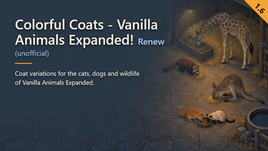
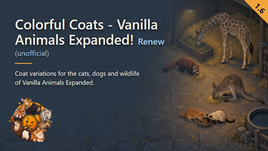
Preview: the ModIcon mascot, cut out and tilted, in the bottom-left corner
Owner's rule, 2026-09-29: gallery image 0 is a copy of Preview.png, and
Preview.png itself now carries the ModIcon mascot in one corner, cut out of
its near-black background, tilted +15 in the left corner / -15 in the right.
Bottom-left chosen: top corners hold the title and the version badge.

Art/ModIcon-corner.png is the reusable rotated cutout. Art/Gallery/00-preview.png
is the gallery copy, kept in step by hand, not regenerated automatically.
Still under Steam's 1 MB ceiling (754 KB). Checked at 268 px: the icon reads
as a small accent, not the subject, which is the intent for a corner mark.

Changed region(s): [[0.0299, 0.6358, 0.209, 0.9536]]

diff --git a/PUBLICATION.md b/PUBLICATION.md
@@ -26,10 +26,16 @@ a file name does not say what it contains.
 
 ## Gallery order
 
-Steam shows the first image large. **Open:** the captures come from `coats.feature`
-(`@review`, poodles drawn with their coat), not yet run. Plan: 1. poodles with different coats,
-close up; 2. a second species, for range; 3. the rare coat if a capture of it exists. Each image
-is opened and looked at before it is chosen; a green scenario does not prove its image shows a coat.
+Steam shows the first image large. **Owner's rule, 2026-09-29: image 0 is a copy of
+`Mod/About/Preview.png`** — the same banner, reused as the first gallery screenshot rather than
+being the header alone. `Art/Gallery/00-preview.png` is that copy, regenerated whenever
+`Preview.png` changes; not committed automatically, kept in step by hand.
+
+Plan for the rest, **open**: the captures come from `coats.feature`
+(`@review`, poodles drawn with their coat), not yet run. 1. `00-preview.png`; 2. poodles with
+different coats, close up; 3. a second species, for range; 4. the rare coat if a capture of it
+exists. Each image is opened and looked at before it is chosen; a green scenario does not prove
+its image shows a coat.
 
 ## Thank-you messages
 

diff --git a/CHANGELOG.md b/CHANGELOG.md
@@ -16,6 +16,11 @@ their targets exactly. The one change to the patches is hardening, not a repair.
 
 ### Added
 
+- The mascot from `About/ModIcon.png` now also sits in the bottom-left corner of
+  `About/Preview.png`, cut out of its near-black background and rotated 15° (owner's rule,
+  2026-09-29: left corner tilts +15°, right corner -15°). `Art/ModIcon-corner.png` is the reusable
+  cutout, and `Art/Gallery/00-preview.png` a copy of the banner for the Workshop gallery's first
+  slot, per the same rule.
 - `About/Preview.png` and `About/ModIcon.png`, the showcase this port draws for itself rather than
   cutting out of purpleyam's textures. The banner is engraved at exactly 896x504 by a headless
   browser, so its glyphs are composed at final size and never resampled; `Art/preview.html` is
